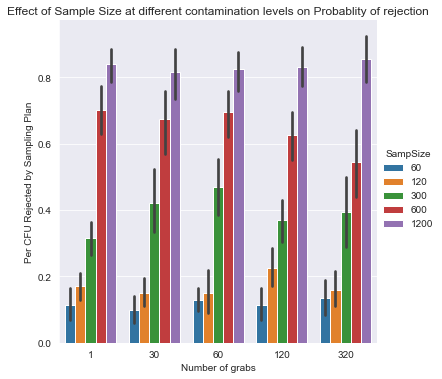
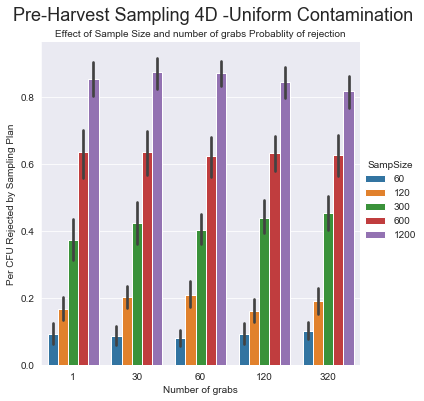
changes

diff --git a/Model/Summary_FinalAnalysis2.0.py b/Model/Summary_FinalAnalysis2.0.py
@@ -1,0 +1,218 @@
+# -*- coding: utf-8 -*-
+"""
+Created on Tue Oct 12 14:10:19 2021
+
+@author: gareyes3
+"""
+
+# %%
+from importlib import reload
+import Listz
+import pandas as pd
+import MainModel3z
+import SCInputz
+import Inputz
+import ContCondz
+import ScenCondz
+import InFunz
+import OutFunz
+import ContScen
+import Funz
+from matplotlib import pyplot as plt
+from matplotlib.ticker import ScalarFormatter
+import seaborn as sns
+import sys
+sys.path
+#sys.path.append('C:\\Users\Gustavo Reyes\Documents\GitHubFiles\CPS-Farm-to-Facility\Model')
+sys.path.append(
+    'C:\\Users\gareyes3\Documents\GitHub\CPS-Farm-to-Facility\Model')
+
+
+# %%
+# Progression DataFrame.
+#Progression_DFS = []
+# %% BAseline Sampling:
+# Contamination Challenges
+ContCondz.Background_C = True
+ContCondz.Point_Source_C = False
+ContCondz.Systematic_C = False
+
+# Harvester Contamination
+ContCondz.Crew_C = False
+ContCondz.Harvester_C = False
+
+# Processing equipment
+ContCondz.PE_C = False
+ContCondz.PE_Cont_Loc = False,  # 1,2,3,4,5
+# 1 = Shredder, #2 = Belt, #3 = Washing, #4 Shaker, #5Centrifuge
+ContCondz.Pack_C = False
+
+
+# %% Pre-Harvest- Comparing Hazard Level and Sample Size
+#%%
+#Tuning Parameter SampleSize and Hazard Level
+
+
+#Tuning_SampleSize = [60,120,300,600,1200] #list(range(100,1200,200))
+#Tuning_HazardLevel = list(range(10000,200000+1,10000))#[4536,45360,453600,4536000]#list(range(10000,130000,10000))
+#Tuning_Grab_number = [1,60,120,320]
+Tuning_Sampling_Type = ["4d", "4h", "Int"]
+Tuning_Sampling_Step = ["PH"]
+Tuning_Contamination_Type = ["BackGround", "PointSource", "Systematic"]
+
+Desired_Outputs = ["PH_CFU_PerR", "PH_Wei_PerR"""]
+Output_Collection_List = [] #First Index
+for i in Tuning_Contamination_Type:
+    Hazard_Level_list = [] #SEcond INdex
+    for j in Tuning_Sampling_Type:  
+        
+        #SCInputz.sample_size_PH = i
+        #SCInputz.BGHazard_lvl = j
+        #SCInputz.No_Grabs_PH = j
+        Sampling_Step = "PH"
+        Sampling_Type =j
+        Contamination_Type = i
+        
+        # Sampling Conditions, Baseline all conditions are off
+        reload(ScenCondz) #Refreshing ScenCondz. 
+        if Sampling_Step == "Baseline":
+            ScenCondz.Baseline_Sampling = 1
+        elif Sampling_Step == "PH":
+            ScenCondz.PH_Sampling = 1
+            if Sampling_Type == "4d":
+                ScenCondz.PHS_4d = 1
+            if Sampling_Type == "4h":
+                ScenCondz.PHS_4h = 1
+            if Sampling_Type == "Int":
+                ScenCondz.PHS_Int = 1
+        elif Sampling_Step == "H":
+            ScenCondz.H_Sampling = 1
+            if Sampling_Type == "Trad":
+                ScenCondz.HS_Trad = 1
+            if Sampling_Type == "Agg":
+                ScenCondz.HS_Agg = 1
+        elif Sampling_Step == "Receiving":
+            ScenCondz.R_Sampling = 1
+        elif Sampling_Step == "FP":
+            ScenCondz.FP_Sampling = 1
+            if Sampling_Type == "Trad":
+                ScenCondz.FP_Trad = 1
+            if Sampling_Type == "Agg":
+                ScenCondz.FP_Agg = 1
+                
+        reload(ContCondz)        
+        # Contamination Challenges
+        if Contamination_Type=="BackGround":  
+            ContCondz.Background_C = True
+        if Contamination_Type=="PointSource":
+            ContCondz.Point_Source_C = True
+        if Contamination_Type=="Systematic":
+            ContCondz.Systematic_C = True
+        
+        '''
+        # Harvester Contamination
+        ContCondz.Crew_C = False
+        ContCondz.Harvester_C = False
+        
+        # Processing equipment
+        ContCondz.PE_C = False
+        ContCondz.PE_Cont_Loc = False,  # 1,2,3,4,5
+        # 1 = Shredder, #2 = Belt, #3 = Washing, #4 Shaker, #5Centrifuge
+        ContCondz.Pack_C = False
+        '''
+        reload(SCInputz)  # Reload Inputz
+        reload(Listz)  # ReUPdate Lists
+        
+        Main_Mod_Outs = MainModel3z.F_MainLoop()
+        OutputDF = Main_Mod_Outs[1]
+        ProgDF = Main_Mod_Outs[0]
+        
+        DF= OutFunz.F_Output_get_cols(Outdf = OutputDF , ColNames = Desired_Outputs)
+        #DF= pd.melt(DF)
+        DF["HLev"] = j
+        DF["SampSize"] = i
+        Hazard_Level_list.append(DF)
+    Output_Collection_List.append(Hazard_Level_list)
+  
+Main_list = []     
+for  i in Output_Collection_List  :   
+    Combined_df = pd.concat(i)
+    Main_list.append(Combined_df)
+
+
+Main_Combined = pd.concat(Main_list)
+#Main_Combined_PRej = Main_Combined.loc[Main_Combined['variable'] == "PH_CFU_PerR"]
+
+sns.set_style("darkgrid")
+sns.lmplot(x="PH_CFU_PerR", y="PH_Wei_PerR", hue="HLev", data=Main_Combined,scatter=True)
+#sns.lineplot(x="HLev", y="value", hue="SampSize", data= Main_Combined_PRej)
+plt.xlabel("Per Weight Rejected by Sampling Plan")
+plt.ylabel("Per CFU Rejected by Sampling Plan")
+plt.title("Effect of Sample Size at different contamination levels on Probablity of rejection",fontsize=10)
+plt.suptitle("Pre-Harvest Sampling types",y=1.07, fontsize=18)
+plt.xticks(rotation=70)
+#plt.xscale('log')
+
+g=sns.FacetGrid(Main_Combined, col = "SampSize" )
+g.map(sns.regplot, x="PH_CFU_PerR", y="PH_Wei_PerR")
+
+sns.set_style("darkgrid")
+sns.catplot(x="HLev", y="value", hue="SampSize", kind= "bar", data= Main_Combined_PRej)
+#sns.lineplot(x="HLev", y="value", hue="SampSize", data= Main_Combined_PRej)
+plt.xlabel("Per Weight Rejected by Sampling Plan")
+plt.ylabel("Per CFU Rejected by Sampling Plan")
+plt.title("Effect of Sample Size at different contamination levels on Probablity of rejection",fontsize=10)
+plt.suptitle("Pre-Harvest Sampling 4D -Uniform Contamination",y=1.07, fontsize=18)
+plt.xticks(rotation=70)
+#plt.xscale('log')
+
+
+
+
+
+
+
+
+
+
+
+
+
+
+
+
+
+
+
+
+
+
+
+
+# Sampling Conditions, Baseline all conditions are off
+reload(ScenCondz) #Refreshing ScenCondz. 
+if Sampling_Step == "Baseline":
+    ScenCondz.Baseline_Sampling = 1
+elif Sampling_Step == "PH":
+    ScenCondz.PH_Sampling = 1
+    if Sampling_Type == "4d":
+        ScenCondz.PHS_4d = 1
+    if Sampling_Type == "4h":
+        ScenCondz.PHS_4h = 1
+    if Sampling_Type == "Int":
+        ScenCondz.PHS_Int = 1
+elif Sampling_Step == "H":
+    ScenCondz.H_Sampling = 1
+    if Sampling_Type == "Trad":
+        ScenCondz.HS_Trad = 1
+    if Sampling_Type == "Agg":
+        ScenCondz.HS_Agg = 1
+elif Sampling_Step == "Receiving":
+    ScenCondz.R_Sampling = 1
+elif Sampling_Step == "FP":
+    ScenCondz.FP_Sampling = 1
+    if Sampling_Type == "Trad":
+        ScenCondz.FP_Trad = 1
+    if Sampling_Type == "Agg":
+        ScenCondz.FP_Agg = 1
+

diff --git a/Model/Summary_FinalAnalysis.py b/Model/Summary_FinalAnalysis.py
@@ -35,9 +35,7 @@ sys.path.append(
     'C:\\Users\gareyes3\Documents\GitHub\CPS-Farm-to-Facility\Model')
 
 
-# %%
-# Progression DataFrame.
-#Progression_DFS = []
+
 # %% BAseline Sampling:
 # Contamination Challenges
 ContCondz.Background_C = True
@@ -56,9 +54,8 @@ ContCondz.Pack_C = False
 
 
 # %% Pre-Harvest- Comparing Hazard Level and Sample Size
-
+#%%
 #Tuning Parameter SampleSize and Hazard Level
-
 
 Tuning_SampleSize = [60,120,300,600,1200] #list(range(100,1200,200))
 Tuning_HazardLevel = list(range(10000,200000+1,10000))#[4536,45360,453600,4536000]#list(range(10000,130000,10000))
@@ -131,8 +128,8 @@ plt.xticks(rotation=70)
 
 
 
-# %% Pre-Harvest -Comparing Number of Grabs and Sample Size, Identify Major Driver. Unform Contamination
-
+#%% Pre-Harvest -Comparing Number of Grabs and Sample Size, Identify Major Driver. Unform Contamination
+#%%
 #Tuning Parameter SampleSize and Hazard Level
 
 Tuning_SampleSize = [60,120,300,600,1200] #list(range(100,1200,200))
@@ -189,13 +186,13 @@ sns.catplot(x="GrabNo", y="value", hue="SampSize",kind= "bar", data= Main_Combin
 #sns.lineplot(x="GrabNo", y="value", hue="SampSize", data= Main_Combined_GS_PRej)
 plt.xlabel("Number of grabs")
 plt.ylabel("Per CFU Rejected by Sampling Plan")
-plt.title("Effect of Sample Size at different contamination levels on Probablity of rejection")
+plt.title("Effect of Sample Size and number of grabs Probablity of rejection",fontsize=10)
+plt.suptitle("Pre-Harvest Sampling 4D -Uniform Contamination",y=1.07, fontsize=18)
 
 plt.xticks(rotation=70)
 plt.ticklabel_format(style='plain', axis='x')
 
-
-
+#%% POINT SOURCE- COMPARING NUMBER OF GRABS AND SAMPLE SIZE
 # %% Changing to Point Source Contamination
 # Contamination Challenges
 ContCondz.Background_C = False
@@ -268,10 +265,27 @@ sns.catplot(x="GrabNo", y="value", hue="SampSize",kind= "bar", data= Main_Combin
 #sns.lineplot(x="GrabNo", y="value", hue="SampSize", data= Main_Combined_GS_PRej)
 plt.xlabel("Number of grabs")
 plt.ylabel("Per CFU Rejected by Sampling Plan")
-plt.title("Effect of Sample Size at different contamination levels on Probablity of rejection")
+plt.title("Effect of Sample Size and number of grabs Probablity of rejection",fontsize=10)
+plt.suptitle("Pre-Harvest Sampling 4D -Point Source Contamination",y=1.07, fontsize=18)
 
 plt.xticks(rotation=70)
 plt.ticklabel_format(style='plain', axis='x')
+
+
+
+
+
+
+
+
+
+
+
+
+
+
+
+
 
 
 #%%

diff --git a/Model/SCInputz.py b/Model/SCInputz.py
@@ -13,7 +13,7 @@ import numpy as np
 
 #Initial Inputs for Field Setup and Challenges
 
-N_Iterations= 20
+N_Iterations= 25
 
 Field_Weight= 100000 #total lb in field
 slot_weight = 10000 #weight of the sublot in field.
